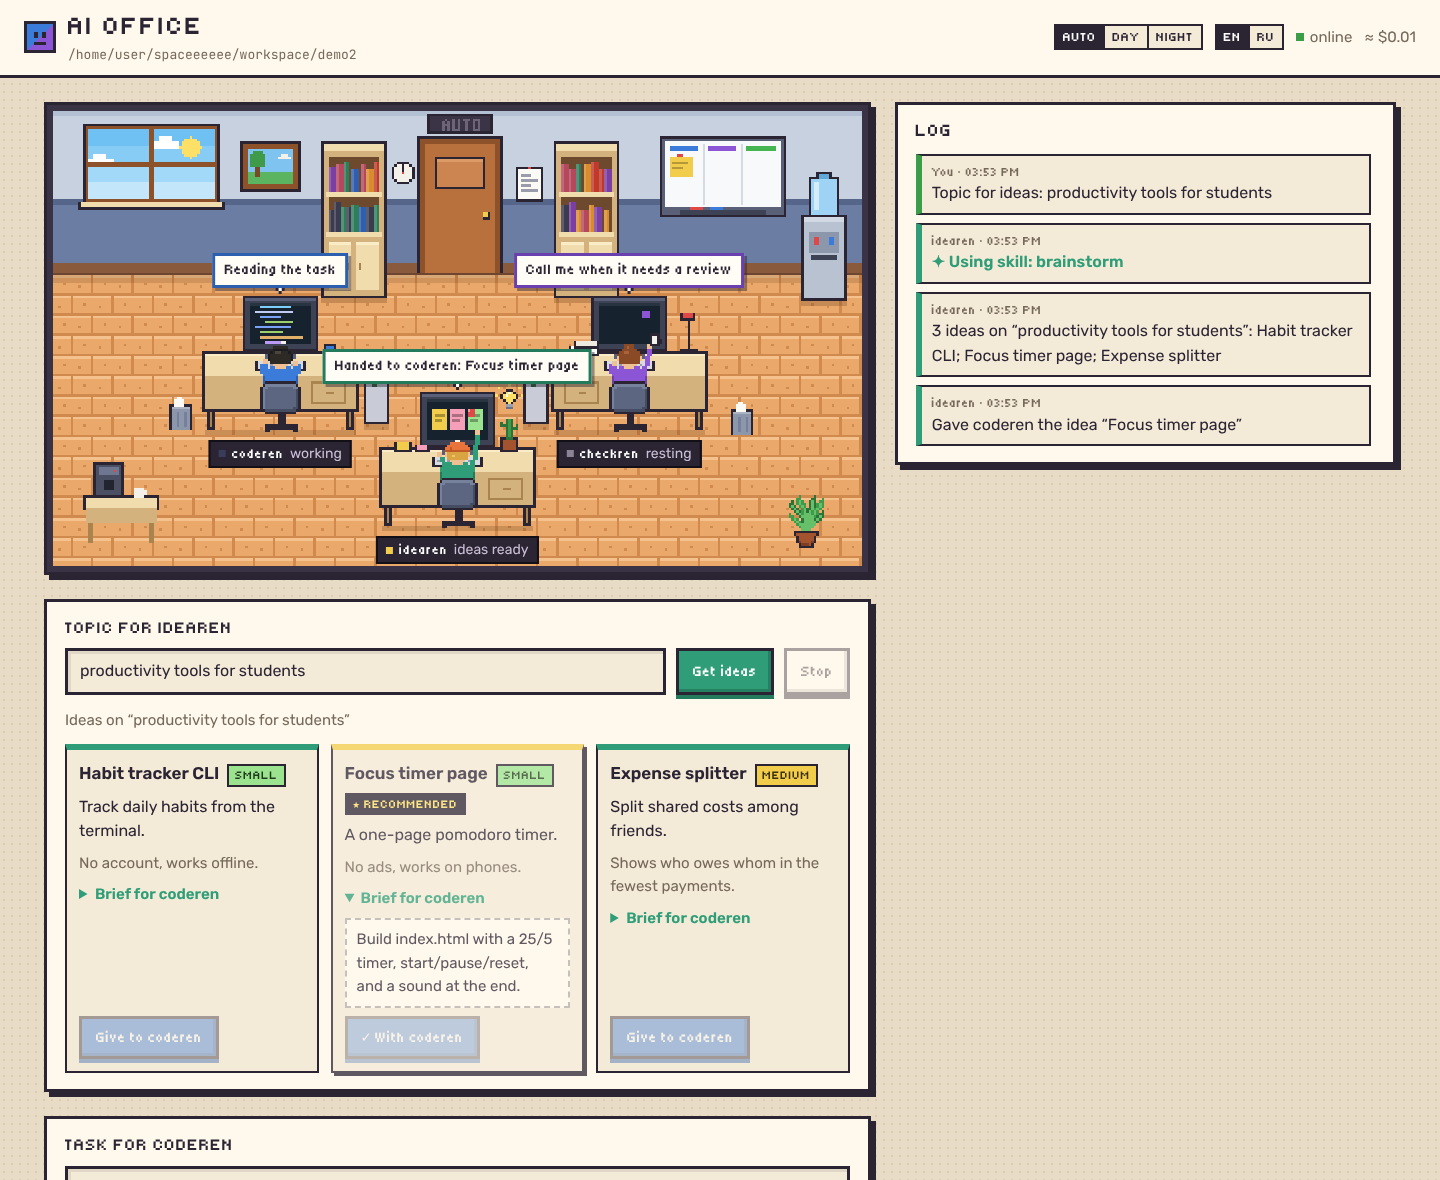
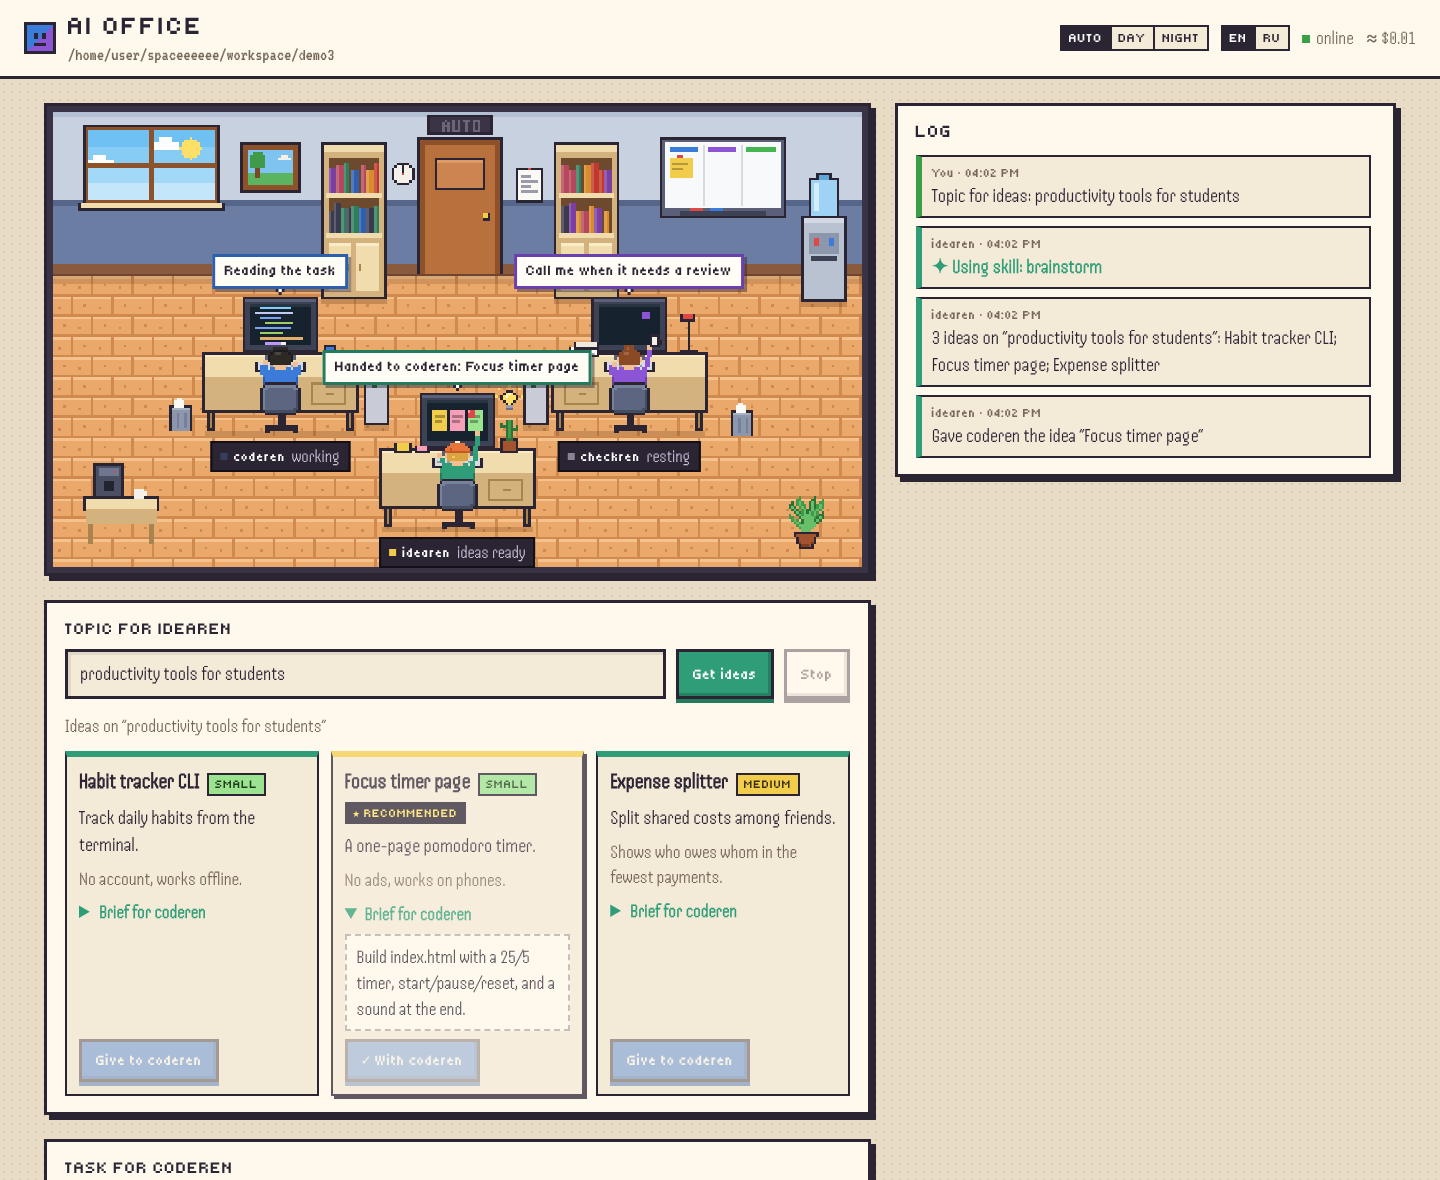
Use pixel and terminal fonts for all text in the office
Rubik, the smooth sans used for longer text, stood out against the pixel
art. Longer text now uses Handjet, a dot-matrix face with good Cyrillic,
and code uses VT323, a terminal face, with Ubuntu Mono standing in for
Cyrillic. Tiny5 stays for headings, buttons and badges.

Handjet draws round parentheses like square brackets, which turned
reset() into reset[]; a 2.5 KB subset of VT323 with only "(" and ")"
fixes that through unicode-range. The subset ships with its SIL Open
Font License, and the server now serves .woff2 files.

Text from the agents shows `code` between backticks in the code font,
built from text nodes so nothing they write can become markup.

diff --git a/office/static/style.css b/office/static/style.css
@@ -1,3 +1,13 @@
+/* Handjet draws round parentheses like square brackets, which turns reset() into reset[].
+   This face carries only VT323's "(" and ")", so they come from it and everything else from Handjet.
+   VT323: Copyright 2011 The VT323 Project Authors, SIL Open Font License 1.1 (OFL-VT323.txt). */
+@font-face {
+  font-family: "Paren Fix";
+  src: url("/static/parens.woff2") format("woff2");
+  unicode-range: U+0028-0029;
+  font-display: swap;
+}
+
 :root {
   --bg: #e8dcc6;
   --bg-dots: #dccdb2;
@@ -19,10 +29,12 @@
   --warn: #e08a1e;
   --warn-dark: #b06a12;
   --focus: #f2cd4b;
-  /* Tiny5 keeps the pixel look for short labels; Rubik carries anything longer than a few words. */
+  /* All three are pixel or terminal faces, so text matches the office. Tiny5 for short labels,
+     Handjet (dot-matrix, with Cyrillic) for longer text, VT323 for code; VT323 has no Cyrillic,
+     so Ubuntu Mono stands in for it. */
   --pixel-font: "Tiny5", ui-monospace, monospace;
-  --text-font: "Rubik", system-ui, -apple-system, "Segoe UI", sans-serif;
-  --mono-font: "JetBrains Mono", ui-monospace, SFMono-Regular, Menlo, monospace;
+  --text-font: "Paren Fix", "Handjet", "Tiny5", system-ui, sans-serif;
+  --mono-font: "VT323", "Ubuntu Mono", ui-monospace, monospace;
   color-scheme: light;
 }
 
@@ -60,7 +72,7 @@ body {
   background-color: var(--bg);
   background-image: radial-gradient(var(--bg-dots) 1px, transparent 1px);
   background-size: 8px 8px;
-  font: 16px/1.55 var(--text-font);
+  font: 20px/1.35 var(--text-font);
 }
 
 h1, h2 { margin: 0; font-family: var(--pixel-font); font-weight: 400; line-height: 1.15; letter-spacing: 0.05em; }
@@ -110,14 +122,14 @@ h2 { font-size: 18px; }
 .workspace {
   margin: 4px 0 0;
   color: var(--muted);
-  font: 13px var(--mono-font);
+  font: 18px var(--mono-font);
   overflow: hidden;
   text-overflow: ellipsis;
   white-space: nowrap;
   max-width: 52vw;
 }
 
-.meta { display: flex; align-items: center; gap: 12px; font-size: 15px; color: var(--muted); flex: none; }
+.meta { display: flex; align-items: center; gap: 12px; font-size: 19px; color: var(--muted); flex: none; }
 
 .conn::before {
   content: "";
@@ -223,7 +235,7 @@ h2 { font-size: 18px; }
   color: #fff;
   background: #2b2433;
   border: 2px solid #120f17;
-  font: clamp(12px, 1.2vw, 14px)/1.2 var(--text-font);
+  font: clamp(15px, 1.4vw, 18px)/1.1 var(--text-font);
   pointer-events: auto;
   cursor: pointer;
 }
@@ -249,7 +261,7 @@ textarea {
   min-height: 80px;
   padding: 10px 12px;
   resize: vertical;
-  font: 16px/1.45 var(--text-font);
+  font: 20px/1.35 var(--text-font);
   color: var(--text);
   background: var(--panel-2);
   border: 3px solid var(--ink);
@@ -283,7 +295,7 @@ textarea:focus-visible, .btn:focus-visible { outline: 3px solid var(--focus); ou
 .btn.warn { --face: var(--warn); --edge: var(--warn-dark); color: #fff; }
 .btn.ghost { --face: var(--panel); }
 
-.hint { margin: 12px 0 0; min-height: 1.4em; color: var(--muted); font-size: 15px; }
+.hint { margin: 12px 0 0; min-height: 1.4em; color: var(--muted); font-size: 19px; }
 
 /* ---------- verdict ---------- */
 
@@ -295,7 +307,7 @@ textarea:focus-visible, .btn:focus-visible { outline: 3px solid var(--focus); ou
   flex: none;
   width: 40px;
   height: 40px;
-  font: 700 20px/1 var(--text-font);
+  font: 700 20px/1 system-ui, sans-serif;
   color: #fff;
   border: 3px solid var(--ink);
 }
@@ -303,13 +315,13 @@ textarea:focus-visible, .btn:focus-visible { outline: 3px solid var(--focus); ou
 .verdict[data-approved="false"] .stamp { background: var(--bad); }
 .verdict[data-sent="true"] .stamp { background: var(--warn); }
 .verdict[data-sent="true"] .issues { opacity: 0.7; }
-.verdict-reasons { margin: 4px 0 0; color: var(--muted); font-size: 15px; }
+.verdict-reasons { margin: 4px 0 0; color: var(--muted); font-size: 19px; }
 .verdict-summary { margin: 14px 0; }
 
 .checks { display: flex; flex-wrap: wrap; gap: 6px; margin: 0 0 12px; padding: 0; list-style: none; }
 .checks li {
   padding: 2px 8px;
-  font: 12px var(--mono-font);
+  font: 17px var(--mono-font);
   background: var(--panel-2);
   border: 2px solid var(--ink);
 }
@@ -320,7 +332,7 @@ textarea:focus-visible, .btn:focus-visible { outline: 3px solid var(--focus); ou
 .issues li { padding: 10px 12px; background: var(--panel-2); border: 2px solid var(--ink); }
 .issue-head { display: flex; flex-wrap: wrap; align-items: baseline; gap: 8px; }
 .issue-head strong { font-weight: 600; }
-.issue-where { font: 12px var(--mono-font); color: var(--muted); overflow-wrap: anywhere; }
+.issue-where { font: 17px var(--mono-font); color: var(--muted); overflow-wrap: anywhere; }
 .issues p { margin: 6px 0 0; }
 .issues .why { white-space: pre-wrap; overflow-wrap: anywhere; }
 .issues .fix { color: var(--muted); }
@@ -368,8 +380,15 @@ textarea:focus-visible, .btn:focus-visible { outline: 3px solid var(--focus); ou
 .feed li[data-kind="error"] { border-left-color: var(--bad); }
 .feed .who { display: block; font: 13px/1.4 var(--pixel-font); letter-spacing: 0.04em; color: var(--muted); }
 .feed .text { display: block; white-space: pre-wrap; overflow-wrap: anywhere; }
-.feed li[data-kind="tool"] .text { font: 13px/1.45 var(--mono-font); color: var(--muted); }
+.feed li[data-kind="tool"] .text { font: 18px/1.2 var(--mono-font); color: var(--muted); }
 .empty { margin: 0; color: var(--muted); }
+
+/* code from the agents' text, written between backticks */
+code {
+  padding: 0 3px;
+  font: 1.05em/1 var(--mono-font);
+  background: rgb(43 36 51 / 8%);
+}
 
 /* ---------- toast ---------- */
 
@@ -402,7 +421,7 @@ textarea:focus-visible, .btn:focus-visible { outline: 3px solid var(--focus); ou
   flex: 1 1 260px;
   min-width: 0;
   padding: 9px 12px;
-  font: 16px/1.4 var(--text-font);
+  font: 20px/1.3 var(--text-font);
   color: var(--text);
   background: var(--panel-2);
   border: 3px solid var(--ink);
@@ -410,7 +429,7 @@ textarea:focus-visible, .btn:focus-visible { outline: 3px solid var(--focus); ou
 }
 .topic-row input:focus-visible { outline: 3px solid var(--focus); outline-offset: 2px; }
 
-.ideas-topic { margin: 14px 0 0; color: var(--muted); font-size: 15px; }
+.ideas-topic { margin: 14px 0 0; color: var(--muted); font-size: 19px; }
 .ideas-topic:empty { display: none; }
 
 .idea-cards {
@@ -434,9 +453,9 @@ textarea:focus-visible, .btn:focus-visible { outline: 3px solid var(--focus); ou
 .idea[data-recommended="true"] { border-top-color: #f2cd4b; box-shadow: 3px 3px 0 var(--shadow); }
 .idea[data-handed="true"] { opacity: 0.75; }
 .idea-head { display: flex; flex-wrap: wrap; align-items: baseline; gap: 6px 8px; }
-.idea-head strong { font-weight: 600; font-size: 17px; line-height: 1.3; }
+.idea-head strong { font-weight: 700; font-size: 22px; line-height: 1.15; }
 .idea p { margin: 0; }
-.idea .why { color: var(--muted); font-size: 15px; }
+.idea .why { color: var(--muted); font-size: 19px; }
 .scope, .star {
   padding: 2px 6px 1px;
   font: 12px/1.3 var(--pixel-font);
@@ -448,7 +467,7 @@ textarea:focus-visible, .btn:focus-visible { outline: 3px solid var(--focus); ou
 .scope.medium { background: #f2cd4b; color: #3b2f0c; }
 .scope.large { background: #f59fb8; color: #4a1828; }
 .star { background: #2b2433; color: #ffe066; }
-.idea details { font-size: 15px; }
+.idea details { font-size: 19px; }
 .idea summary { cursor: pointer; color: var(--ideator); font-weight: 600; }
 .idea summary:focus-visible { outline: 3px solid var(--focus); outline-offset: 2px; }
 .idea .brief {
@@ -519,7 +538,7 @@ textarea:focus-visible, .btn:focus-visible { outline: 3px solid var(--focus); ou
 .switch input:focus-visible + .track { outline: 3px solid var(--focus); outline-offset: 2px; }
 .switch-label { font: 16px/1.2 var(--pixel-font); letter-spacing: 0.05em; }
 
-.rounds { display: inline-flex; align-items: center; gap: 8px; font-size: 14px; color: var(--muted); }
+.rounds { display: inline-flex; align-items: center; gap: 8px; font-size: 18px; color: var(--muted); }
 .rounds select {
   padding: 3px 6px;
   font: inherit;
@@ -528,7 +547,7 @@ textarea:focus-visible, .btn:focus-visible { outline: 3px solid var(--focus); ou
   border: 2px solid var(--ink);
 }
 
-.autopilot-status { font-size: 14px; color: var(--muted); }
+.autopilot-status { font-size: 18px; color: var(--muted); }
 .autopilot[data-state="running"] .autopilot-status { color: var(--bad); font-weight: 600; }
 .autopilot[data-state="approved"] .autopilot-status { color: var(--ok); font-weight: 600; }
 .autopilot[data-state="limit"] .autopilot-status,
@@ -605,7 +624,7 @@ body.drawer-open { overflow: hidden; }
   flex: none;
   width: 36px;
   height: 36px;
-  font: 700 16px/1 var(--text-font);
+  font: 700 16px/1 system-ui, sans-serif;
   color: var(--text);
   background: var(--panel-2);
   border: 3px solid var(--ink);
@@ -638,8 +657,8 @@ body.drawer-open { overflow: hidden; }
   border: 2px solid var(--ink);
   border-left: 6px solid color-mix(in srgb, var(--accent) 55%, var(--panel-2));
 }
-.skill strong { font: 600 14px/1.3 var(--mono-font); }
-.skill span { color: var(--muted); font-size: 14px; }
+.skill strong { font: 20px/1.1 var(--mono-font); }
+.skill span { color: var(--muted); font-size: 18px; }
 .skill em {
   margin-left: 6px;
   padding: 1px 5px;

diff --git a/office/static/app.js b/office/static/app.js
@@ -204,6 +204,18 @@ function applyLanguage(next) {
 
 // ---------- rendering ----------
 
+// Agents write code between backticks; show it in the code font instead of as raw backticks.
+// Built from text nodes, never innerHTML, so nothing an agent writes can become markup.
+function richText(el, text) {
+  const parts = String(text ?? "").split(/`([^`\n]+)`/);
+  el.replaceChildren(...parts.map((part, i) => {
+    if (i % 2 === 0) return document.createTextNode(part);
+    const code = document.createElement("code");
+    code.textContent = part;
+    return code;
+  }));
+}
+
 // An agent with nothing to do is resting, or asleep at night; the scene knows which.
 function statusText(agent, status) {
   const t = S();
@@ -240,7 +252,7 @@ function render(s) {
     const a = s.agents[agent];
     if (!a) continue;
     $(`desk-${agent}`).dataset.status = a.status;
-    setText($(`bubble-${agent}`), a.bubble);
+    setText($(`bubble-${agent}`), a.bubble.replace(/`/g, ""));
     $(`status-${agent}`).textContent = statusText(agent, a.status);
   }
 
@@ -336,17 +348,17 @@ function ideaCard(idea, index, t) {
   }
 
   const pitch = document.createElement("p");
-  pitch.textContent = idea.pitch;
+  richText(pitch, idea.pitch);
   const why = document.createElement("p");
   why.className = "why";
-  why.textContent = idea.why;
+  richText(why, idea.why);
 
   const details = document.createElement("details");
   const summary = document.createElement("summary");
   summary.textContent = t.brief;
   const brief = document.createElement("div");
   brief.className = "brief";
-  brief.textContent = idea.task;
+  richText(brief, idea.task);
   details.append(summary, brief);
 
   const button = document.createElement("button");
@@ -373,7 +385,7 @@ function renderVerdict(v) {
   const reasons = v.checks.filter((c) => !c.passed).map((c) => t.check_failed(c.command));
   if (blocking) reasons.push(t.serious(blocking));
   $("verdict-reasons").textContent = reasons.join(" · ") || (n ? t.non_blocking(n) : t.no_notes);
-  $("verdict-summary").textContent = v.summary;
+  richText($("verdict-summary"), v.summary);
 
   $("verdict-checks").replaceChildren(...v.checks.map((c) => {
     const li = document.createElement("li");
@@ -390,7 +402,7 @@ function renderVerdict(v) {
     sev.className = `sev ${i.severity}`;
     sev.textContent = i.severity;
     const title = document.createElement("strong");
-    title.textContent = i.title;
+    richText(title, i.title);
     head.append(sev, title);
     if (i.file) {
       const where = document.createElement("span");
@@ -400,10 +412,10 @@ function renderVerdict(v) {
     }
     const why = document.createElement("p");
     why.className = "why";
-    why.textContent = i.explanation;
+    richText(why, i.explanation);
     const fix = document.createElement("p");
     fix.className = "fix";
-    fix.textContent = `${t.how_to_fix} ${i.suggestion}`;
+    richText(fix, `${t.how_to_fix} ${i.suggestion}`);
     li.append(head, why, fix);
     return li;
   }));
@@ -421,7 +433,9 @@ function logItem(entry) {
   who.textContent = `${S().names[entry.agent] || entry.agent} · ${time}`;
   const text = document.createElement("span");
   text.className = "text";
-  text.textContent = entry.kind === "tool" ? `→ ${entry.text}` : entry.kind === "skill" ? `✦ ${entry.text}` : entry.text;
+  if (entry.kind === "tool") text.textContent = `→ ${entry.text}`;
+  else if (entry.kind === "skill") text.textContent = `✦ ${entry.text}`;
+  else richText(text, entry.text);
   li.append(who, text);
   return li;
 }
@@ -466,7 +480,7 @@ function renderDrawer() {
   $("drawer-title").textContent = t.names[drawerAgent];
   $("drawer-status").textContent = `${t.roles[drawerAgent]} · ${statusText(drawerAgent, agent.status)}`;
   $("drawer").dataset.status = agent.status;
-  $("drawer-bubble").textContent = agent.bubble;
+  richText($("drawer-bubble"), agent.bubble);
 
   const skills = state.skills?.[drawerAgent] || [];
   const list = $("drawer-skills");

diff --git a/office/static/index.html b/office/static/index.html
@@ -6,7 +6,7 @@
   <title>AI Office</title>
   <link rel="preconnect" href="https://fonts.googleapis.com">
   <link rel="preconnect" href="https://fonts.gstatic.com" crossorigin>
-  <link rel="stylesheet" href="https://fonts.googleapis.com/css2?family=Tiny5&family=Rubik:wght@400;500;600;700&family=JetBrains+Mono:wght@400;600&display=swap">
+  <link rel="stylesheet" href="https://fonts.googleapis.com/css2?family=Tiny5&family=Handjet:wght@400;500;600;700&family=VT323&family=Ubuntu+Mono&display=swap">
   <link rel="stylesheet" href="/static/style.css">
 </head>
 <body>

diff --git a/office/server.py b/office/server.py
@@ -17,7 +17,7 @@ from .agents import WORKER_TOOLS, Busy, Office
 from .i18n import LANGUAGES
 
 STATIC_DIR = Path(__file__).parent / "static"
-STATIC_TYPES = {".html": "text/html", ".css": "text/css", ".js": "text/javascript"}
+STATIC_TYPES = {".html": "text/html", ".css": "text/css", ".js": "text/javascript", ".woff2": "font/woff2"}
 LOOPBACK_NAMES = {"localhost", "127.0.0.1", "[::1]", "::1"}
 HEARTBEAT_SECONDS = 15
 
@@ -42,7 +42,8 @@ def make_handler(office: Office, allow_remote: bool = False):
 
         def _send(self, status: int, body: bytes, content_type: str) -> None:
             self.send_response(status)
-            self.send_header("Content-Type", f"{content_type}; charset=utf-8")
+            text = content_type.startswith("text/") or content_type == "application/json"
+            self.send_header("Content-Type", f"{content_type}; charset=utf-8" if text else content_type)
             self.send_header("Content-Length", str(len(body)))
             self.send_header("Cache-Control", "no-store")
             self.end_headers()

diff --git a/tests/test_office.py b/tests/test_office.py
@@ -276,6 +276,9 @@ def test_http_serves_page_and_state(server):
     status, body = request(base + "/api/state")
     assert json.loads(body)["agents"]["worker"]["status"] == "idle"
     assert request(base + "/static/../agents.py")[0] == 404
+    with urllib.request.urlopen(base + "/static/parens.woff2", timeout=5) as res:
+        assert res.headers["Content-Type"] == "font/woff2"
+        assert res.read(4) == b"wOF2"
 
 
 def test_http_blocks_cross_site_posts(server):
